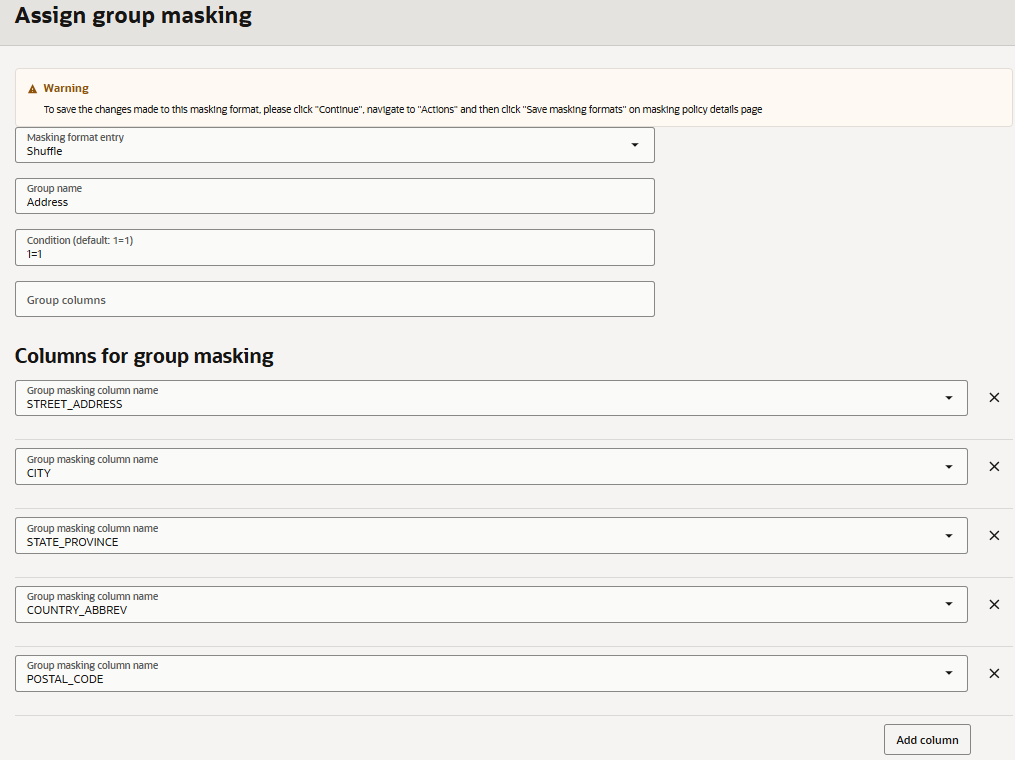
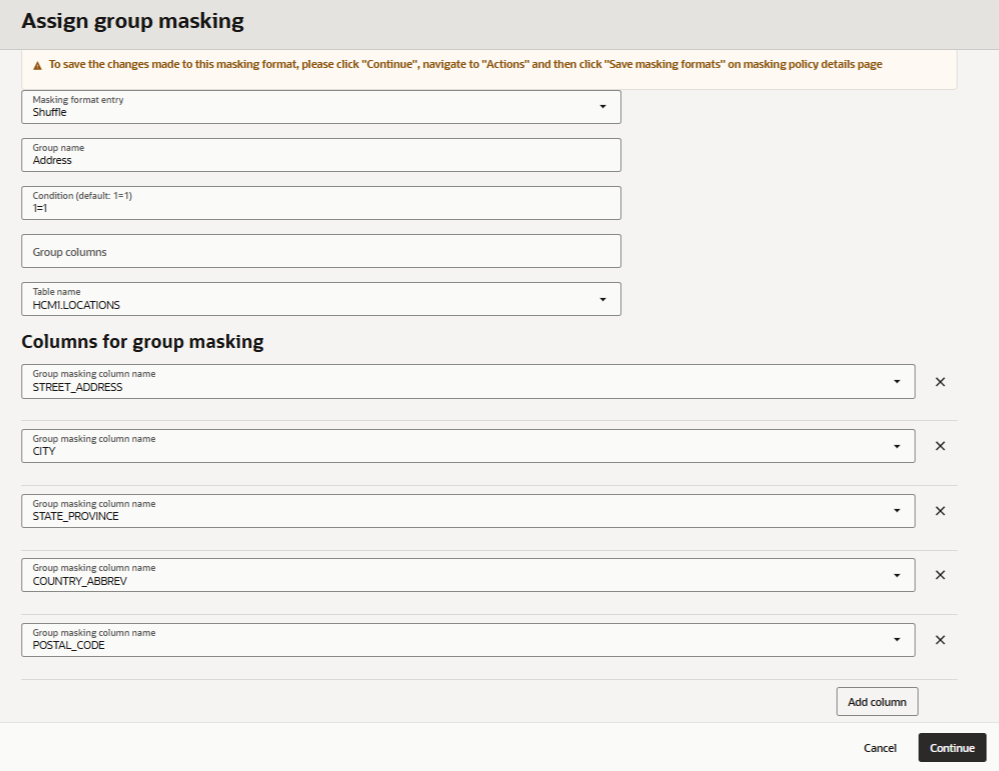
updates

diff --git a/data-safe/discover-sensitive-data/discover-sensitive-data.md b/data-safe/discover-sensitive-data/discover-sensitive-data.md
@@ -96,7 +96,7 @@ Increase the scope of the data discovery job.
 
 1. Select the **Incremental discovery** tab.
 
-2. Under **Incremental discovery**, from the **Actions** menu, select **Run discovery now**.
+2. Select **Run discovery now**.
 
     The **Run discovery now** dialog box opens.
 
@@ -116,57 +116,45 @@ Increase the scope of the data discovery job.
 
 8. For **Step 5 - Select discovery options**, select **Collect, display and store sample data**.
 
-9. Select **Run discovery now**. Scroll down and wait for the status of the discovery job to read as **Done**, and then select **Close**.
+9. Select **Run discovery now**.
 
-   ![Finished incremental discovery job](images/finished-incremental-discovery-job.png "Finished incremental discovery job")
+    When the discovery job finishes, the **History of incremental discoveries** tab is displayed. Your discovery job is listed in the table and has a status of **Active**.
 
-10. Review the additional sensitive data that was discovered. 
+10. Select the **Incremental discovery** tab, scroll down, and review the additional sensitive data that was discovered.
 
-11. Under **Incremental discovery**, from the **Actions** menu, select **Manage results**. 
+11. Select the check box next to **Schema** in the table to select all of the discovered sensitive columns.
 
-    The **Incremental discovery** panel opens. Here you can approve and reject incremental discovery results.
+12. From the **Actions** menu, select **Approve**.
 
-12. Scroll down and select **All incremental discovery results**, and then select **Approve**. 
+    The **Approve discovery results** dialog box is displayed. Approving the selected columns will mark the discovery results to add new columns, remove deleted columns or update the modified columns. This action does not update the sensitive data model automatically. Apply to SDM will update the sensitive data model with the latest results that have been approved or rejected.
 
-    ![Approve all incremental discovery results](images/approve-discovery-results.png "Approve all incremental discovery results")
+    ![Approve discovery results dialog box](images/approve-discovery-results-dialog-box2.png "Approve discovery results dialog box")
 
-13. In the **Approve discovery results** dialog box, select **Approve**.
+13. Select **Approve**.
 
-    ![Approve discovery results dialog box](images/approve-discovery-results-dialog-box.png "Approve discovery results dialog box")
+14. With all of the columns still selected, from the **Actions** menu, select **Apply to SDM**.
 
-    You are returned to the **Incremental discovery** panel.
-    
-14. Select **Close** to close the panel.
+    The **Apply to SDM** dialog box opens. You are warned that this operation will update the sensitive data model with all the columns of this discovery job results that have been processed.
 
-15. Scroll to the right in the table, if needed, and verify that the **Planned action** column now has **Approved** listed in each row. 
+    ![Apply to SDM dialog box](images/apply-to-SDM-dialog-box.png "Apply to SDM dialog box")
 
-    ![Approve in each row](images/approve-in-each-row.png "Approve in each row")
-
-16. Under **Incremental discovery**, from the **Actions** menu, select **Manage results**. Select **Apply to SDM**.
-
-    ![Apply to sensitive data model dialog box](images/apply-to-sensitive-data-model.png "Apply to sensitive data model dialog box")
-
-    The **Apply to SDM** dialog box opens.
-
-17. Select **Apply to sensitive data model**, and then wait to be returned to the **Incremental discovery** tab.
+15. Select **Apply**, and then wait to be returned to the **Incremental discovery** tab.
 
     The sensitive data model is updated with the additional sensitive columns.
     
-18. Select **Close** to close the panel.
-
-    There are no sensitive columns listed anymore because you added them to the sensitive data model.
+16. Select the **History of incremental discoveries** tab, and then select your incremental discovery job. All of the sensitive columns are marked as **Approved** in the **Planned action** column.
 
 
 ## Task 4: Remove a column from the sensitive data model
 
 Remove the `DATE_OF_HIRE` column from the sensitive data model.
 
-1. Select the **Sensitive columns** tab.
+1. Return to the the **Sensitive columns** tab.
 
-2. Under **Sensitive columns**, from the **Actions** menu, select **Remove columns**. 
+2. Under **Sensitive columns**, from the **Actions** menu, select **Remove columns**.
 
     The **Remove columns** panel opens.
-    
+
 3. From the **Column** dropdown list, select **DATE\_OF\_HIRE**.
 
 4. Select **Search**.
@@ -211,4 +199,4 @@ You may now **proceed to the next lab**.
 
 ## Acknowledgements
 - **Author** - Jody Glover, Consulting User Assistance Developer, Database Development
-- **Last Updated By/Date** - Jody Glover, February 8, 2026
+- **Last Updated By/Date** - Jody Glover, July 28, 2026

diff --git a/data-safe/mask-sensitive-data/mask-sensitive-data.md b/data-safe/mask-sensitive-data/mask-sensitive-data.md
@@ -78,7 +78,7 @@ View the sensitive data in the `HCM1.EMPLOYEES` table.
 
     ![EMPLOYEES table](images/drag-employees-table-to-worksheet.png "EMPLOYEES table")
 
-4. When prompted to choose an insertion type, click **Select**, and then select **Apply**.
+4. When prompted to choose an insertion type, select **Select**, and then select **Apply**.
 
     ![Choose the type of insertion dialog box](images/insertion-type-select.png "Choose the type of insertion dialog box")
 
@@ -96,16 +96,16 @@ View the sensitive data in the `HCM1.EMPLOYEES` table.
 
     - Data such as `EMPLOYEE_ID`, `FIRST_NAME`, `LAST_NAME`, `EMAIL`, and `PHONE_NUMBER` are considered sensitive data and should be masked if shared for non-production use.
 
-8. Repeat steps 3 to 7 for the `LOCATIONS` table.
+8. Clear the worksheet and the **Script Output** tab, and repeat steps 3 to 7 for the `LOCATIONS` table.
 
-9. Keep this browser tab open because you return to it later. Return to the browser tab for Oracle Data Safe. 
+9. Keep this browser tab open because you return to it later.
 
 
 ## Task 3: Create a masking policy for your target database
 
 Data Masking can generate a masking policy for your target database based on your sensitive data model. It automatically tries to select a default masking format for each sensitive column. You can edit these default selections and select different ones as needed. Occasionally you might be prompted to fix issues (if they exist) in your masking formats.
 
-1. Navigate to the **Data masking** landing page.
+1. Return to the browser tab for Oracle Data Safe and navigate to the **Data masking** landing page.
 
 2. Under **Data masking**, select **Masking policies**.
 
@@ -130,7 +130,7 @@ Data Masking can generate a masking policy for your target database based on you
     *Important! Please do not close the panel. It closes automatically after all operations are completed. If you close the panel before the operations are finished, the operation to add columns to the masking policy is not initiated.*
 
 
-7. Review the **Details** tab. 
+7. On the **Masking policy** page, review the **Details** tab. 
 
     - Under **General information**, you can view the masking policy name, a description of the masking policy, the Oracle Cloud Identifier (OCID) for the masking policy, the compartment in which the masking policy is stored, when the masking policy was created and updated.
     - Under **Column source**, you can view the name of the target database and a link to the sensitive data model.
@@ -177,7 +177,9 @@ Use the group masking feature to create a group named `ADDRESS` and apply the `S
 
 4. For **Condition**, enter **1=1**.
 
-5. For each of the following columns, select the column from the **Group masking column name** dropdown list, and then select **Add column**. 
+5. For **Table name**, select **HCM1.LOCATIONS**.
+
+6. For each of the following columns, select the column from the **Group masking column name** dropdown list, and then select **Add column**. 
 
     - `STREET_ADDRESS`
     - `CITY`
@@ -190,11 +192,11 @@ Use the group masking feature to create a group named `ADDRESS` and apply the `S
     ![Group mask configuration](images/group-mask1.png "Group mask configuration")
 
 
-6. Select **Continue**.
+7. Select **Continue**.
 
-7. Notice that the masking format for the columns is set to **Address**.
+8. Notice that the masking format for the columns is set to **Address**.
 
-8. From the **Actions** menu, select  **Save masking formats**.
+9. From the **Actions** menu, select  **Save masking formats**.
 
 
 ## Task 6: Perform a pre-masking check
@@ -295,4 +297,4 @@ The pre-masking check looks for any known issues that might arise during a maski
 
 ## Acknowledgements
 - **Author** - Jody Glover, Consulting User Assistance Developer, Database Development
-- **Last Updated By/Date** - Jody Glover, February 8, 2026
+- **Last Updated By/Date** - Jody Glover, July 28, 2026

diff --git a/data-safe/assess-database-users/assess-database-users-ocw.md b/data-safe/assess-database-users/assess-database-users-ocw.md
@@ -100,8 +100,8 @@ The latest user assessment was automatically generated by Oracle Data Safe when 
     - Privileges: Expand **All privileges** to view all the privileges granted to the user
     - Schema access
 
-    ![EVIL_RICH user details top](images/ua-EVIL_RICH-user-details.png "EVIL_RICH user details top")
-    ![EVIL_RICH user details bottom](images/ua-EVIL_RICH-user-details-bottom.png "EVIL_RICH user details bottom")
+    ![EVIL_RICH user details top](images/ua-evil_rich-user-details.png "EVIL_RICH user details top")
+    ![EVIL_RICH user details bottom](images/ua-evil_rich-user-details-bottom.png "EVIL_RICH user details bottom")
 
 9. Select **Close**.
 
@@ -176,4 +176,4 @@ You may now **proceed to the next lab**.
 ## Acknowledgements
 
 * **Author** - Jody Glover, Consulting User Assistance Developer, Database Development
-* **Last Updated By/Date** - Jody Glover, February 8, 2026
+* **Last Updated By/Date** - Jody Glover, April 7, 2026

diff --git a/data-safe/register-autonomous-database/register-autonomous-database.md b/data-safe/register-autonomous-database/register-autonomous-database.md
@@ -143,6 +143,8 @@ To register a database other than an Autonomous AI Database for this workshop, p
 
     Note: From here on, to navigate to a landing page, we simply say *Navigate to the 'feature-name' page*.
 
+    ![Data Safe landing pages](images/data-safe-landing-pages.png "Data Safe landing pages")
+
 
 You may now **proceed to the next lab**.
 
@@ -155,4 +157,4 @@ You may now **proceed to the next lab**.
 ## Acknowledgements
 
 - **Author** - Jody Glover, Consulting User Assistance Developer, Database Development
-- **Last Updated By/Date** - Jody Glover, January 29, 2026
+- **Last Updated By/Date** - Jody Glover, February 18, 2026

diff --git a/data-safe/prepare-environment/prepare-environment.md b/data-safe/prepare-environment/prepare-environment.md
@@ -87,7 +87,7 @@ Create a user group and add your Oracle Cloud account to the group.
 
 Create an IAM policy that grants the workshop user the necessary permissions.
 
-1. From the navigation menu, select **Identity and Security**, and the select **Policies**.
+1. From the navigation menu, select **Identity & Security**, and the select **Policies**.
 
     The **Policies** page opens.
 
